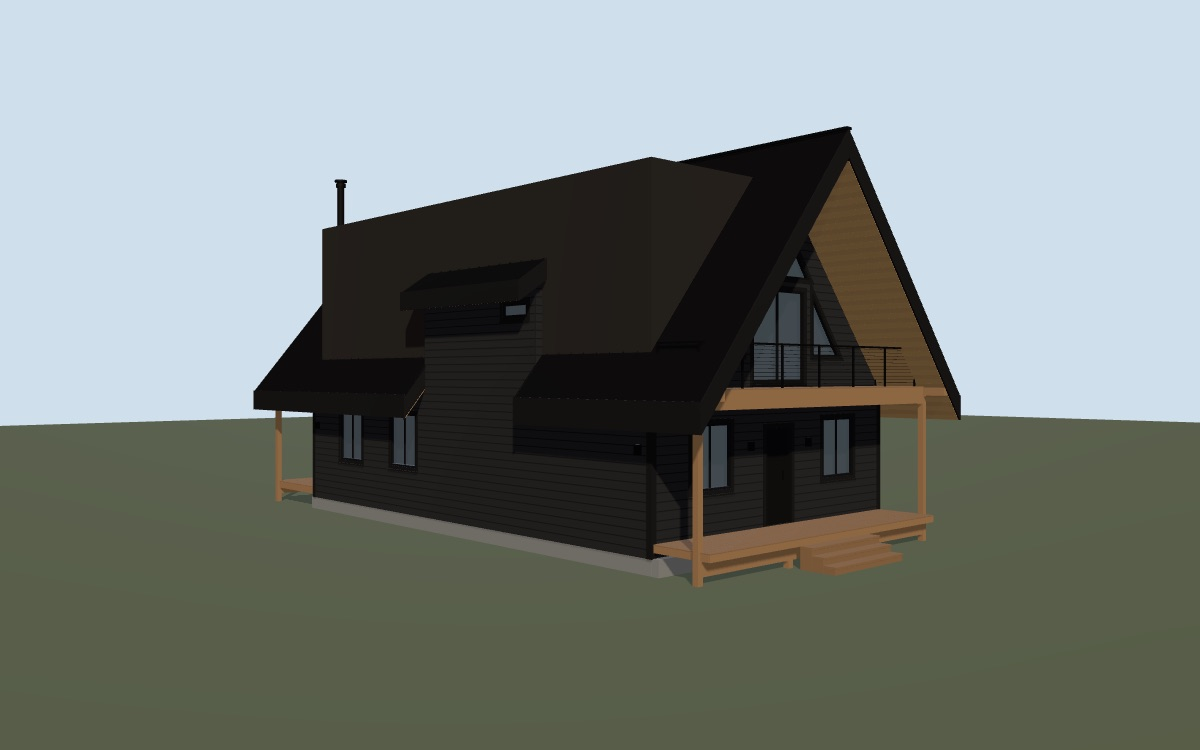
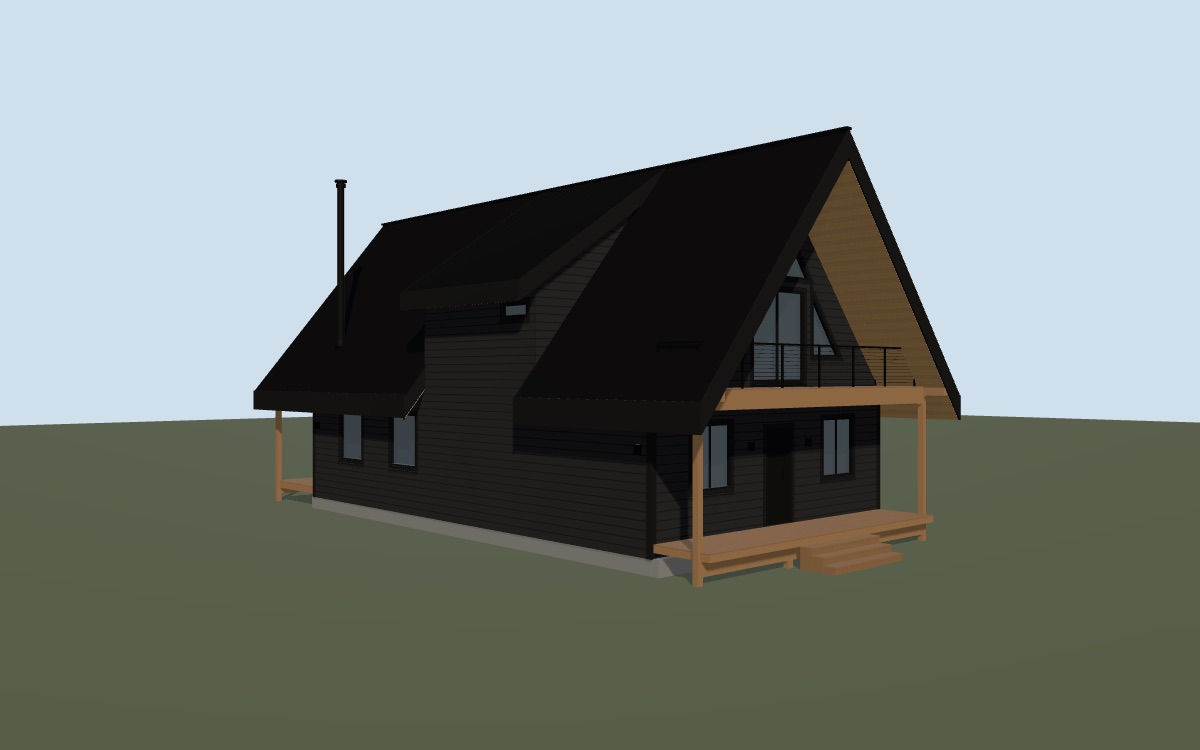
fix: exterior drawing without the roof block, with the siding radio and the owner's window types

Changed region(s): [[0.2467, 0.184, 0.5858, 0.4293]]

diff --git a/exterior.html b/exterior.html
@@ -39,6 +39,10 @@
   #colors input[type=color]{width:24px;height:16px;padding:0;border:1px solid rgba(255,255,255,.3);border-radius:3px;background:none;cursor:pointer;}
   #colors select{background:#2c313a;color:#e8eaed;border:1px solid rgba(255,255,255,.18);border-radius:6px;padding:3px 6px;font-size:11px;}
   #colors input[type=color]{width:24px;height:16px;padding:0;border:1px solid rgba(255,255,255,.3);border-radius:3px;background:none;cursor:pointer;}
+  #colors select{background:#2c313a;color:#e8eaed;border:1px solid rgba(255,255,255,.18);border-radius:6px;padding:3px 6px;font-size:11px;}
+  #colors input[type=color]{width:24px;height:16px;padding:0;border:1px solid rgba(255,255,255,.3);border-radius:3px;background:none;cursor:pointer;}
+  #colors select{background:#2c313a;color:#e8eaed;border:1px solid rgba(255,255,255,.18);border-radius:6px;padding:3px 6px;font-size:11px;}
+  #colors input[type=color]{width:24px;height:16px;padding:0;border:1px solid rgba(255,255,255,.3);border-radius:3px;background:none;cursor:pointer;}
   #err{position:absolute;top:40%;left:50%;transform:translate(-50%,-50%);color:#ffb4a8;font-size:14px;text-align:center;display:none;padding:20px;}
   #hint{position:absolute;bottom:2px;right:10px;font-size:10px;color:#6b727b;}
   #legendbtn{display:none;}
@@ -77,7 +81,7 @@
     already in the porch and rear-deck drawings: 7&frac14;" lap siding, 1x4 casings, 2x10 fascia, cedar T&amp;G soffits, black
     standing-seam roof, Milgard black windows and sliders, the metal entry door, both decks on their as-built glulams and 6x6 posts,
     centered 8' stairs, sconces and the stove chimney. <b>Colors</b> below swaps siding, trim, fascia, roof, soffit, wood, decking, door,
-    railing and foundation colors live; three starting schemes (black-on-black is the July 2025 reference build). Grade is illustrative
+    railing and foundation colors live; three starting schemes (black-on-black is the July 2025 reference build). <b>Siding</b> switches between the contract's horizontal lap and a board-and-batten alternative (12" battens, an interpretation). Grade is illustrative
     at 14" of stem wall showing (owner, 2026-09-11); ground-level deck guards are drawn but off. Orange labels mark what is not on the
     sheets. Framing lives in the two deck drawings. <b>Not engineered &mdash; do not build from this.</b> Spec:
     <code>outputs/house-exterior-3d-spec.md</code>.
@@ -85,7 +89,7 @@
   </div>
   <div class="panel" id="legend">
     <h2>Legend</h2>
-    <div class="lg"><span class="sw" data-slot="siding"></span>Lap siding (Hardie Plank, 7&frac14;" reveal)</div>
+    <div class="lg"><span class="sw" data-slot="siding"></span><span id="legend-siding">Lap siding (Hardie Plank, 7&frac14;" reveal)</span></div>
     <div class="lg"><span class="sw" data-slot="trim"></span>Trim: casings, corner boards, frieze</div>
     <div class="lg"><span class="sw" data-slot="fascia"></span>Fascia and rake boards</div>
     <div class="lg"><span class="sw" data-slot="roof"></span>Standing-seam metal roof</div>
@@ -113,6 +117,11 @@
       <label><input type="checkbox" data-layer="label"> Labels</label>
       <label><input type="checkbox" data-layer="dim"> Dimensions</label>
       <label><input type="checkbox" data-layer="caption"> Caption</label>
+    </div>
+    <div class="row fold" id="sidingstyle">
+      <span class="lbl">Siding</span>
+      <label><input type="radio" name="sidingstyle" value="lap" checked> Horizontal lap, 7&frac14;" reveal</label>
+      <label><input type="radio" name="sidingstyle" value="bb"> Board and batten, 12" o.c.</label>
     </div>
     <div class="row fold" id="colors">
       <span class="lbl">Colors</span>
@@ -1685,6 +1694,30 @@ function lapTextures() {
 }
 const LAP = lapTextures();
 LAP.map.colorSpace = THREE.SRGBColorSpace;
+// Board-and-batten alternative: vertical panels with a 2 1/2" batten every 12" (owner asked for the choice, 2026-09-11; spacing and
+// batten width are interpretations -- HardiePanel with HardieTrim battens). u = inches along the wall, so battens fall at 12" multiples
+// from gridline B on the gable walls and from the corners on the side walls.
+const BB_SP = 12, BB_W = 2.5;
+function battenTextures() {
+  const W = 256, H = 32, bw = Math.round(W * BB_W / BB_SP);
+  const a = document.createElement('canvas'); a.width = W; a.height = H;
+  let g = a.getContext('2d');
+  g.fillStyle = '#f4f4f4'; g.fillRect(0, 0, W, H);                       // panel
+  g.fillStyle = '#ffffff'; g.fillRect(0, 0, bw, H);                       // batten face, a shade lighter
+  let sh = g.createLinearGradient(bw, 0, bw + 14, 0); sh.addColorStop(0, 'rgba(0,0,0,.45)'); sh.addColorStop(1, 'rgba(0,0,0,0)');
+  g.fillStyle = sh; g.fillRect(bw, 0, 14, H);                             // shadow on the panel beside the batten
+  sh = g.createLinearGradient(W - 8, 0, W, 0); sh.addColorStop(0, 'rgba(0,0,0,0)'); sh.addColorStop(1, 'rgba(0,0,0,.2)');
+  g.fillStyle = sh; g.fillRect(W - 8, 0, 8, H);
+  const n = document.createElement('canvas'); n.width = W; n.height = H;
+  g = n.getContext('2d');
+  g.fillStyle = 'rgb(128,128,255)'; g.fillRect(0, 0, W, H);               // flat panel and batten face
+  g.fillStyle = 'rgb(225,128,205)'; g.fillRect(bw - 2, 0, 3, H);           // batten's right edge faces +u
+  g.fillStyle = 'rgb(30,128,205)';  g.fillRect(W - 2, 0, 2, H);            // batten's left edge (wraps) faces -u
+  const mk = c => { const t = new THREE.CanvasTexture(c); t.wrapS = t.wrapT = THREE.RepeatWrapping; t.repeat.set(1 / BB_SP, 1 / 48); t.anisotropy = 8; return t; };
+  return { map: mk(a), normalMap: mk(n) };
+}
+const BB = battenTextures();
+BB.map.colorSpace = THREE.SRGBColorSpace;
 
 const SCHEMES = {   // hex values are stand-ins until Sherwin Williams colors are chosen (spec: Color schemes)
   black:   { siding: '#262626', trim: '#151515', fascia: '#151515', roof: '#1c1c1e', soffit: '#c99d66', wood: '#b98a5c', deck: '#a67c52', door: '#151515', rail: '#151515', conc: '#9d9b95' },
@@ -1936,7 +1969,11 @@ const OPEN = {                                     // rough openings in wall-loc
     PZ(pts, D.DORM_S, D.DORM_S + EXT, M.siding, L);
     PZ(pts, D.DORM_N, D.DORM_N - EXT, M.siding, L);
   }
-  B(-150, 150, -11, 300, D.G4 + 6, -6, M.inner, L);                                  // dark interior behind the glass
+  // dark interior behind the glass: three prisms that stay under the roof planes (a plain box poked up through the roof)
+  const innerPoly = (top, drop) => [[-150, -11], [150, -11], [150, top(150) - drop], [0, top(0) - drop], [-150, top(150) - drop]];
+  PZ(innerPoly(D.topEnd, 24), -6, D.DORM_S, M.inner, L);
+  PZ(innerPoly(D.topDor, 20), D.DORM_S, D.DORM_N, M.inner, L);
+  PZ(innerPoly(D.topEnd, 24), D.DORM_N, D.G4 + 6, M.inner, L);
   B(-D.HW, D.HW, D.STEM_BOT, D.STEM_TOP, 0, D.STEM_T, M.conc, L);                    // stem walls, outer faces on the stud line
   B(-D.HW, D.HW, D.STEM_BOT, D.STEM_TOP, D.G4 - D.STEM_T, D.G4, M.conc, L);
   for (const s of [-1, 1]) B(s * D.HW, s * (D.HW - D.STEM_T), D.STEM_BOT, D.STEM_TOP, D.G4, 0, M.conc, L);
@@ -2048,12 +2085,12 @@ const OPEN = {                                     // rough openings in wall-loc
     const pl = new THREE.PointLight(0xffd9a0, 0, 220); pl.position.copy(p); pl.name = 'sconce'; pl.visible = false; scene.add(pl);   // invisible: no shader cost in daylight; the export traversal still finds it
   }
   const S = OPEN.S, N = OPEN.N, E = OPEN.E, Wo = OPEN.W;
-  entryDoor(WALLS.S, S.door1); S.A.forEach(r => winRect(WALLS.S, r, { slider: true })); slider(WALLS.S, S.door12);
+  entryDoor(WALLS.S, S.door1); S.A.forEach(r => winRect(WALLS.S, r, { slider: true })); slider(WALLS.S, S.door12);   // guest-bedroom A windows slide (owner 2026-09-11)
   S.O.forEach(t => winTri(WALLS.S, t)); S.P.forEach(t => winTri(WALLS.S, t));
   slider(WALLS.N, N.door9); slider(WALLS.N, N.door10); N.J.forEach(r => winRect(WALLS.N, r));
-  N.K.forEach(t => winTri(WALLS.N, t)); N.Nw.forEach(t => winTri(WALLS.N, t)); N.asb.forEach(r => winRect(WALLS.N, r, { slider: true }));
-  winRect(WALLS.E, E.C); winRect(WALLS.E, E.Dw, { slider: true }); winRect(WALLS.E, E.E, { slider: true });
-  winRect(WALLS.W, Wo.F); winRect(WALLS.W, Wo.A1, { slider: true }); winRect(WALLS.W, Wo.A2, { slider: true });
+  N.K.forEach(t => winTri(WALLS.N, t)); N.Nw.forEach(t => winTri(WALLS.N, t)); N.asb.forEach(r => winRect(WALLS.N, r));   // picture windows (owner 2026-09-11)
+  winRect(WALLS.E, E.C); winRect(WALLS.E, E.Dw, { slider: true }); winRect(WALLS.E, E.E);   // D (kitchen) slides; E (loft) is a picture window (owner 2026-09-11)
+  winRect(WALLS.W, Wo.F); winRect(WALLS.W, Wo.A1); winRect(WALLS.W, Wo.A2);   // living-room picture windows (owner 2026-09-11)
   sconce(WALLS.S, -40, 70); sconce(WALLS.S, 40, 70);
   sconce(WALLS.N, -145, 72); sconce(WALLS.N, 145, 72);
   sconce(WALLS.E, WALLS.E.uOf(-540), 72);
@@ -2153,6 +2190,14 @@ function setSlot(slot, hex) {
   const inp = document.querySelector(`#colors input[data-slot="${slot}"]`); if (inp) inp.value = hex;
   const sw = document.querySelector(`#legend .sw[data-slot="${slot}"]`); if (sw) sw.style.background = hex;
 }
+// Siding style radio: swaps the shared siding material's textures (lap courses vs board-and-batten); ?style=bb presets it.
+function setSidingStyle(style) {
+  const t = style === 'bb' ? BB : LAP;
+  M.siding.map = t.map; M.siding.normalMap = t.normalMap; M.siding.needsUpdate = true;
+  document.getElementById('legend-siding').textContent = style === 'bb' ? 'Board-and-batten siding (12" o.c., interpretation)' : 'Lap siding (Hardie Plank, 7\u00bc" reveal)';
+  const r = document.querySelector(`#sidingstyle input[value="${style}"]`); if (r) r.checked = true;
+}
+document.querySelectorAll('#sidingstyle input').forEach(r => r.addEventListener('change', () => { if (r.checked) setSidingStyle(r.value); r.blur(); }));
 const schemeSel = document.getElementById('scheme');
 function applyScheme(name) { const s = SCHEMES[name]; if (!s) return; for (const k in s) setSlot(k, s[k]); schemeSel.value = name; }
 schemeSel.addEventListener('change', () => { if (SCHEMES[schemeSel.value]) applyScheme(schemeSel.value); schemeSel.blur(); });
@@ -2160,6 +2205,7 @@ document.querySelectorAll('#colors input[type=color]').forEach(i => i.addEventLi
 {
   const q = new URLSearchParams(location.search);
   applyScheme(SCHEMES[q.get('scheme')] ? q.get('scheme') : 'black');
+  setSidingStyle(q.get('style') === 'bb' ? 'bb' : 'lap');
   let custom = false;
   for (const k in SLOT_MATS) if (q.get(k)) { setSlot(k, '#' + q.get(k).replace('#', '')); custom = true; }
   if (custom) schemeSel.value = 'custom';

diff --git a/index.html b/index.html
@@ -71,10 +71,10 @@
         tongue-and-groove soffits, black standing-seam roof, Milgard black windows and sliders, the metal entry door, both decks on their
         as-built glulams and 6x6 posts, centered 8' stairs, sconces and the stove chimney. The <b>Colors</b> row swaps siding, trim, fascia,
         roof, soffit, wood, decking, door, railing and foundation colors live and starts from three schemes: black-on-black (the July 2025
-        reference build), deep green with black trim, and charcoal with black trim. Grade is illustrative at 14" of stem wall showing; the
+        reference build), deep green with black trim, and charcoal with black trim; a <b>Siding</b> row switches the lap siding to board and batten. Grade is illustrative at 14" of stem wall showing; the
         ground-level deck guards are drawn but off. Orange labels mark what is not on the sheets: the west living-room windows, window E's
         sill, the glulam sizes, the rear stair width.</p>
-        <span class="meta">Updated 2026-09-11 &middot; 10 camera views &middot; Colors panel &middot; walls, roof, trim, soffits, openings, decks, stairs, railings and ground are toggles</span>
+        <span class="meta">Updated 2026-09-11 &middot; 10 camera views &middot; Colors panel and Siding radio &middot; walls, roof, trim, soffits, openings, decks, stairs, railings and ground are toggles</span>
         <div class="chips">
           <a class="open" href="exterior.html">Open drawing</a>
           <a href="exterior.html?view=front">Front (SW)</a>
@@ -82,6 +82,7 @@
           <a href="exterior.html?view=porch">At the porch</a>
           <a href="exterior.html?view=front&amp;scheme=green">Green siding</a>
           <a href="exterior.html?view=front&amp;scheme=ironore">Charcoal siding</a>
+          <a href="exterior.html?view=porch&amp;style=bb">Board and batten</a>
           <a href="exterior.html?view=rear&amp;show=rail">With deck railings</a>
           <a href="exterior.html?view=south&amp;show=label,dim">South, annotated</a>
           <a href="exterior.html?view=front&amp;show=caption">Notes</a>
